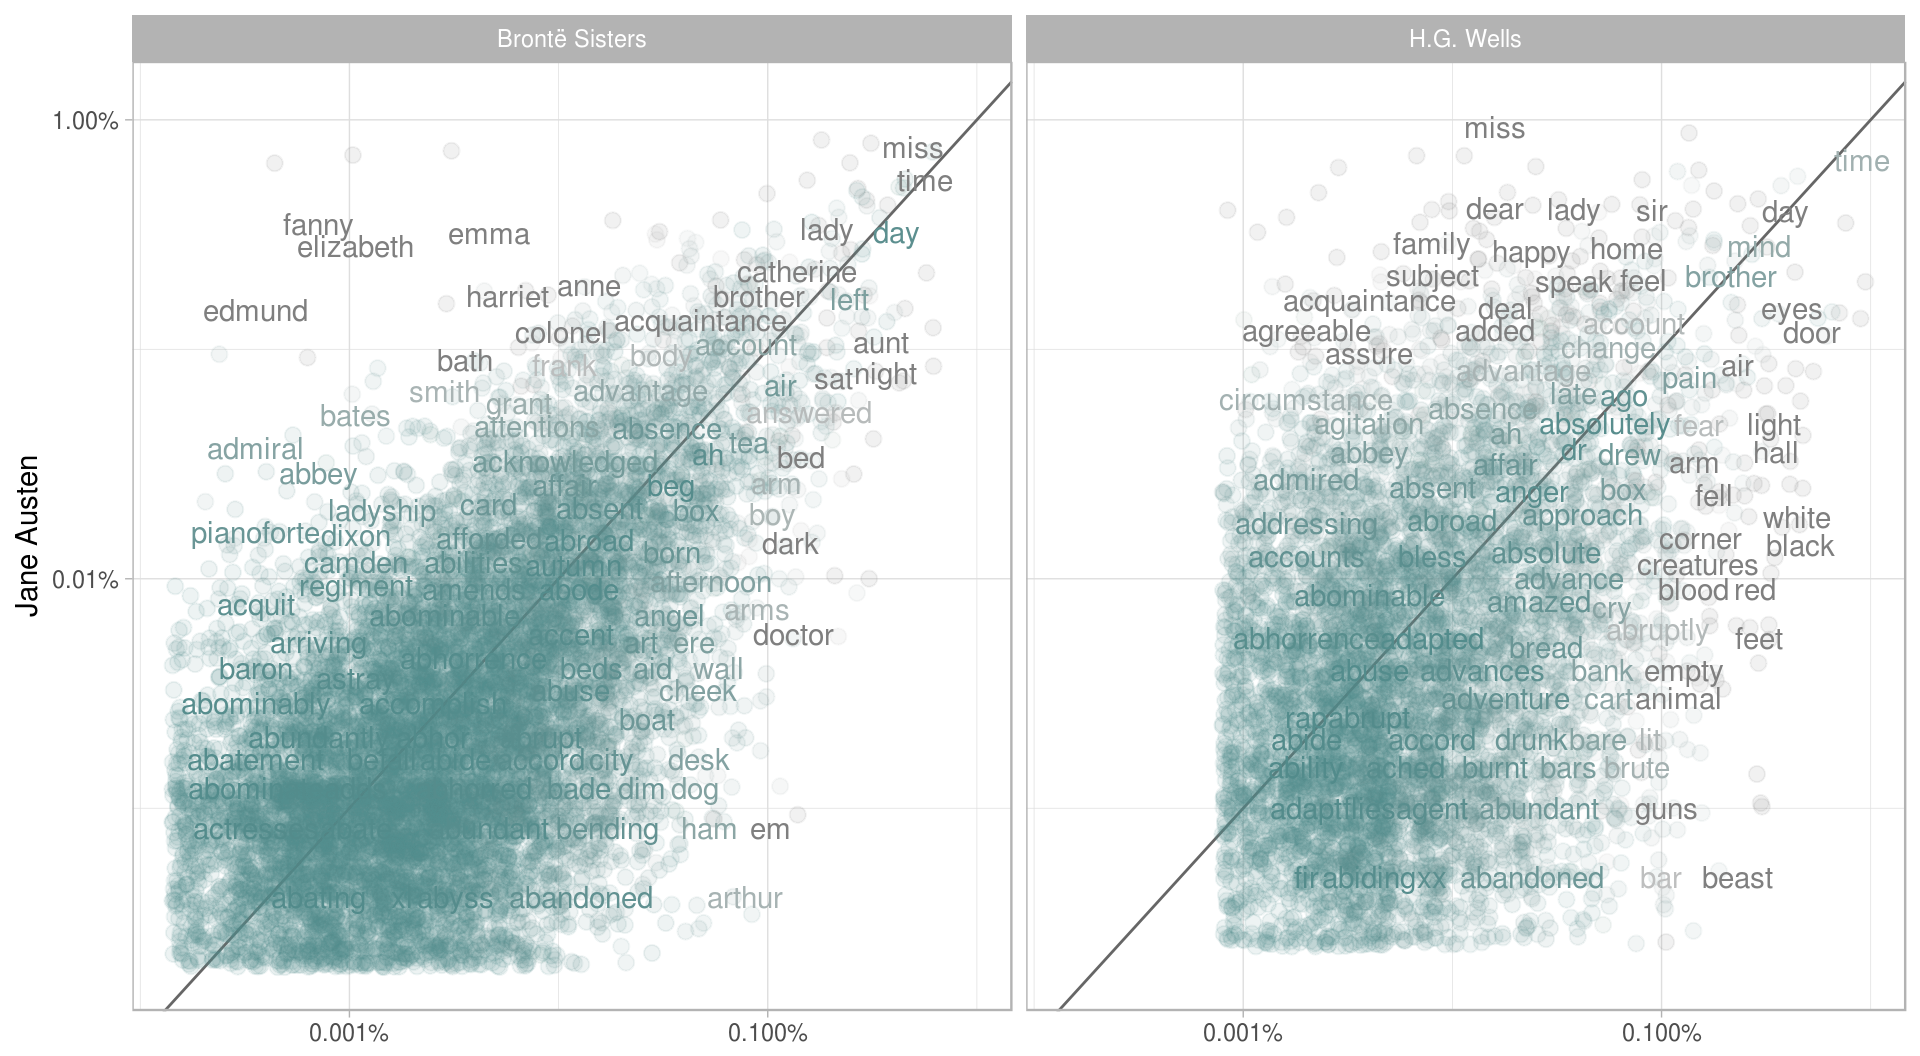
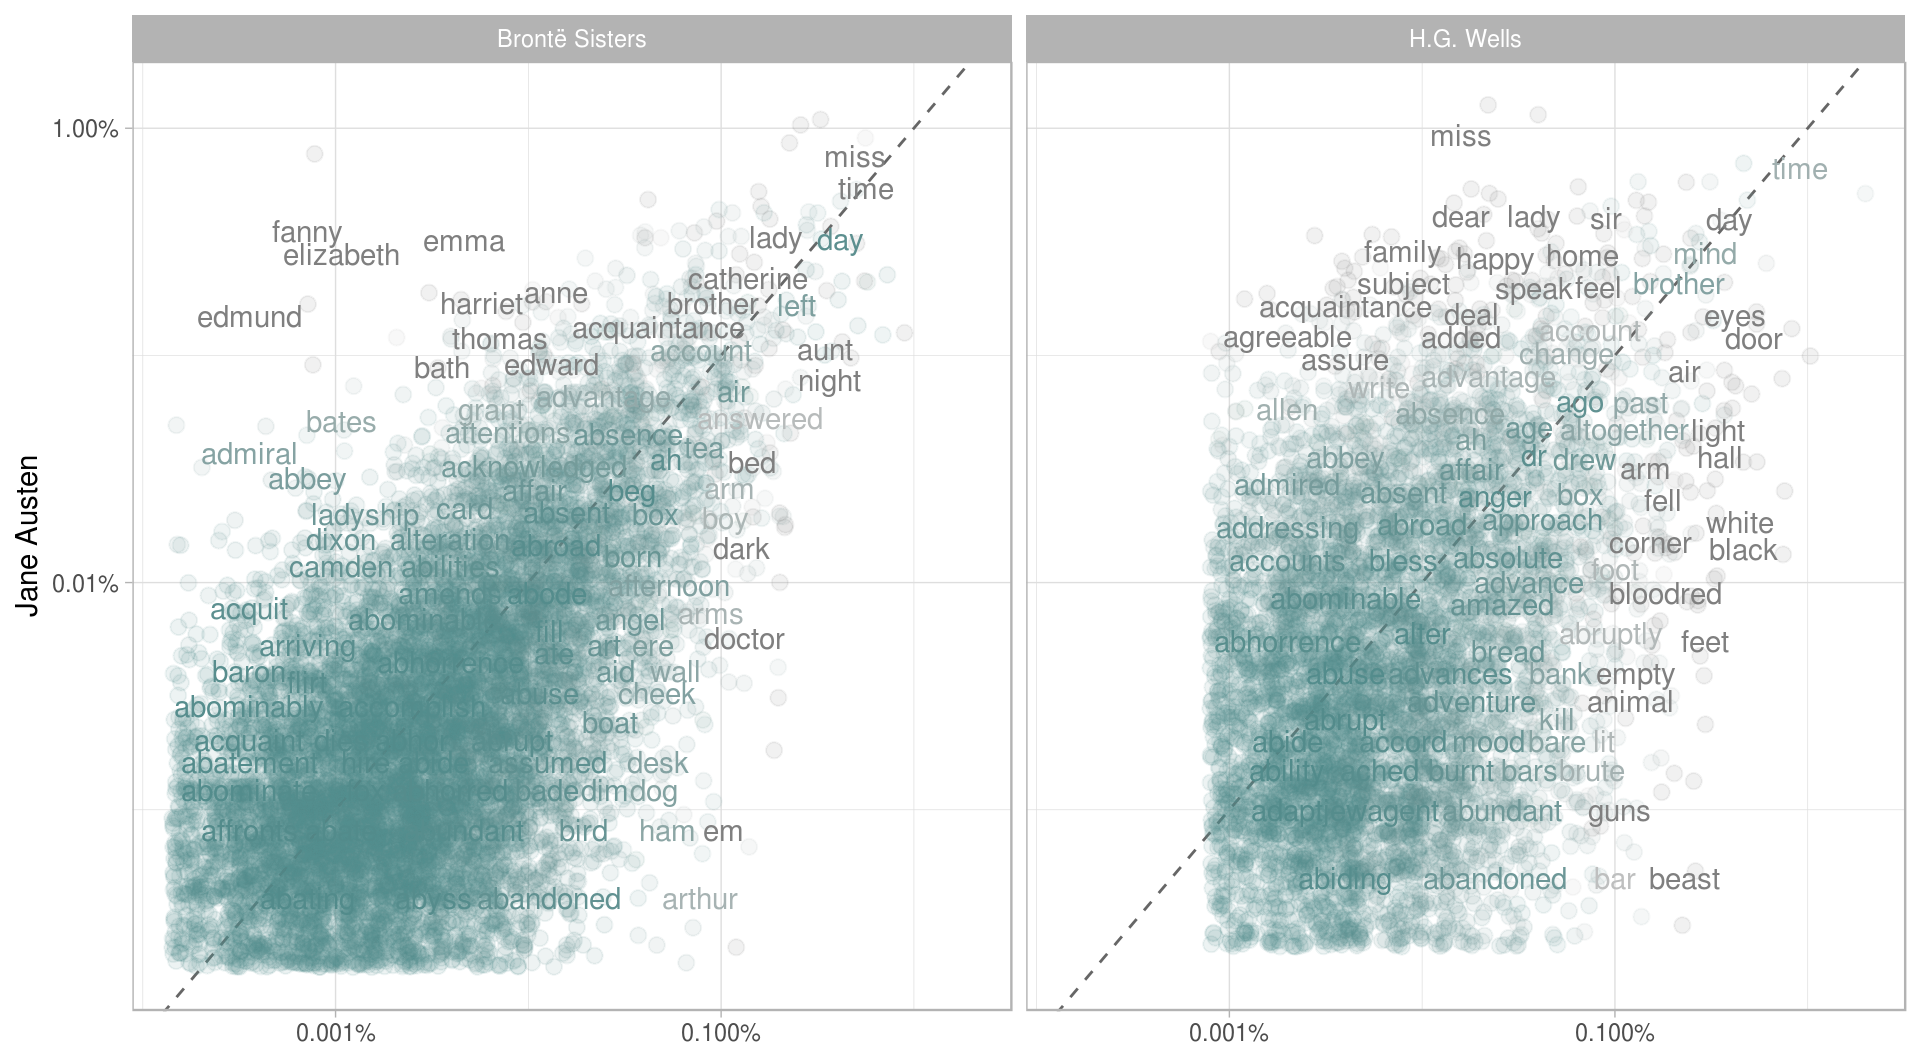
Updating book (103)

diff --git a/tidytext.html b/tidytext.html
@@ -262,7 +262,7 @@ text_df %&gt;%
 </div>
 <div id="tidying-the-works-of-jane-austen" class="section level2">
 <h2><span class="header-section-number">2.2</span> Tidying the works of Jane Austen</h2>
-<p>Let’s use the text of Jane Austen’s 6 completed, published novels from the <a href="https://cran.r-project.org/package=janeaustenr">janeaustenr</a> package, and transform them into a tidy format. The janeaustenr package provides these texts in a one-row-per-line format. Let’s start with that, annotate a <code>linenumber</code> quantity to keep track of lines in the original format, and use a regex to find where all the chapters are.</p>
+<p>Let’s use the text of Jane Austen’s 6 completed, published novels from the <a href="https://cran.r-project.org/package=janeaustenr">janeaustenr</a> package <span class="citation">(Silge <a href="#ref-R-janeaustenr">2016</a>)</span>, and transform them into a tidy format. The janeaustenr package provides these texts in a one-row-per-line format. Let’s start with that, annotate a <code>linenumber</code> quantity to keep track of lines in the original format, and use a regex to find where all the chapters are.</p>
 <div class="sourceCode"><pre class="sourceCode r"><code class="sourceCode r"><span class="kw">library</span>(janeaustenr)
 <span class="kw">library</span>(dplyr)
 <span class="kw">library</span>(stringr)
@@ -309,7 +309,7 @@ tidy_books</code></pre></div>
 ## 9  Sense &amp; Sensibility         10       1           1
 ## 10 Sense &amp; Sensibility         13       1         the
 ## # ... with 725,044 more rows</code></pre>
-<p>This function uses the <a href="https://github.com/lmullen/tokenizers">tokenizers package</a> to separate each line into words. The default tokenizing is for words, but other options include characters, n-grams, sentences, lines, paragraphs, or separation around a regex pattern.</p>
+<p>This function uses the <a href="https://github.com/lmullen/tokenizers">tokenizers package</a> <span class="citation">(Mullen <a href="#ref-R-tokenizers">2016</a>)</span> to separate each line into words. The default tokenizing is for words, but other options include characters, n-grams, sentences, lines, paragraphs, or separation around a regex pattern.</p>
 <p>Now that the data is in one-word-per-row format, we can manipulate it with tidy tools like dplyr. We can remove stop words (kept in the tidytext dataset <code>stop_words</code>) with an <code>anti_join</code>.</p>
 <div class="sourceCode"><pre class="sourceCode r"><code class="sourceCode r"><span class="kw">data</span>(stop_words)
 
@@ -348,7 +348,7 @@ tidy_books %&gt;%
 </div>
 <div id="the-gutenbergr-package" class="section level2">
 <h2><span class="header-section-number">2.3</span> The gutenbergr package</h2>
-<p>TODO: Now that we’ve introduced the janeaustenr package, also include a brief intro to the gutenberg package.</p>
+<p>Now that we’ve used the janeaustenr package, let’s introduce the <a href="https://github.com/ropenscilabs/gutenbergr">gutenbergr</a> package <span class="citation">(Robinson <a href="#ref-R-gutenbergr">2016</a>)</span>. The gutenbergr package provides access to the public domain works from the <a href="https://www.gutenberg.org/">Project Gutenberg</a> collection. The package includes tools both for downloading books (stripping out the unhelpful header/footer information), and a complete dataset of Project Gutenberg metadata that can be used to find works of interest. In this book, we will use the function <code>gutenberg_download()</code> that downloads one or more works from Project Gutenberg by ID, but you can also use other functions to explore metadata, pair Gutenberg ID with title, author, language, etc., or gather information about authors. To learn more about gutenbergr, check out the <a href="https://ropensci.org/tutorials/gutenbergr_tutorial.html">package’s tutorial at rOpenSci</a>, where it is one of rOpenSci’s packages for data access.</p>
 </div>
 <div id="word-frequencies" class="section level2">
 <h2><span class="header-section-number">2.4</span> Word frequencies</h2>
@@ -414,7 +414,7 @@ frequency &lt;-<span class="st"> </span>tidy_both %&gt;%
 <p>We use <code>str_extract</code> here because the UTF-8 encoded texts from Project Gutenberg have some examples of words with underscores around them to indicate emphasis (like italics). The tokenizer treated these as words but we don’t want to count “_any_” separately from “any”. Now let’s plot.</p>
 <div class="sourceCode"><pre class="sourceCode r"><code class="sourceCode r"><span class="kw">library</span>(scales)
 <span class="kw">ggplot</span>(frequency, <span class="kw">aes</span>(<span class="dt">x =</span> other, <span class="dt">y =</span> Austen, <span class="dt">color =</span> <span class="kw">abs</span>(Austen -<span class="st"> </span>other))) +
-<span class="st">  </span><span class="kw">geom_abline</span>(<span class="dt">color =</span> <span class="st">&quot;gray40&quot;</span>) +
+<span class="st">  </span><span class="kw">geom_abline</span>(<span class="dt">color =</span> <span class="st">&quot;gray40&quot;</span>, <span class="dt">lty =</span> <span class="dv">2</span>) +
 <span class="st">  </span><span class="kw">geom_jitter</span>(<span class="dt">alpha =</span> <span class="fl">0.1</span>, <span class="dt">size =</span> <span class="fl">2.5</span>, <span class="dt">width =</span> <span class="fl">0.4</span>, <span class="dt">height =</span> <span class="fl">0.4</span>) +
 <span class="st">  </span><span class="kw">geom_text</span>(<span class="kw">aes</span>(<span class="dt">label =</span> word), <span class="dt">check_overlap =</span> <span class="ot">TRUE</span>, <span class="dt">vjust =</span> <span class="fl">1.5</span>) +
 <span class="st">  </span><span class="kw">scale_x_log10</span>(<span class="dt">labels =</span> <span class="kw">percent_format</span>()) +
@@ -455,6 +455,18 @@ frequency &lt;-<span class="st"> </span>tidy_both %&gt;%
 ## 0.4231236</code></pre>
 <p>The relationship between the word frequencies is different between these sets of texts, as it appears in the plots.</p>
 
+</div>
+</div>
+<h3> References</h3>
+<div id="refs" class="references">
+<div id="ref-R-janeaustenr">
+<p>Silge, Julia. 2016. <em>Janeaustenr: Jane Austen’s Complete Novels</em>. <a href="https://CRAN.R-project.org/package=janeaustenr" class="uri">https://CRAN.R-project.org/package=janeaustenr</a>.</p>
+</div>
+<div id="ref-R-tokenizers">
+<p>Mullen, Lincoln. 2016. <em>Tokenizers: A Consistent Interface to Tokenize Natural Language Text</em>. <a href="https://CRAN.R-project.org/package=tokenizers" class="uri">https://CRAN.R-project.org/package=tokenizers</a>.</p>
+</div>
+<div id="ref-R-gutenbergr">
+<p>Robinson, David. 2016. <em>Gutenbergr: Download and Process Public Domain Works from Project Gutenberg</em>. <a href="https://cran.rstudio.com/package=gutenbergr" class="uri">https://cran.rstudio.com/package=gutenbergr</a>.</p>
 </div>
 </div>
             </section>

diff --git a/references.html b/references.html
@@ -215,7 +215,13 @@ code > span.in { color: #60a0b0; font-weight: bold; font-style: italic; } /* Inf
 <p>Mullen, Lincoln. 2016. <em>Tokenizers: A Consistent Interface to Tokenize Natural Language Text</em>. <a href="https://CRAN.R-project.org/package=tokenizers" class="uri">https://CRAN.R-project.org/package=tokenizers</a>.</p>
 </div>
 <div>
+<p>Robinson, David. 2016. <em>Gutenbergr: Download and Process Public Domain Works from Project Gutenberg</em>. <a href="https://cran.rstudio.com/package=gutenbergr" class="uri">https://cran.rstudio.com/package=gutenbergr</a>.</p>
+</div>
+<div>
 <p>Robinson, David, Matthieu Gomez, Boris Demeshev, Dieter Menne, Benjamin Nutter, Luke Johnston, Ben Bolker, Francois Briatte, and Hadley Wickham. 2015. <em>Broom: Convert Statistical Analysis Objects into Tidy Data Frames</em>. <a href="https://CRAN.R-project.org/package=broom" class="uri">https://CRAN.R-project.org/package=broom</a>.</p>
+</div>
+<div>
+<p>Silge, Julia. 2016. <em>Janeaustenr: Jane Austen’s Complete Novels</em>. <a href="https://CRAN.R-project.org/package=janeaustenr" class="uri">https://CRAN.R-project.org/package=janeaustenr</a>.</p>
 </div>
 <div>
 <p>Silge, Julia, and David Robinson. 2016. “Tidytext: Text Mining and Analysis Using Tidy Data Principles in R.” <em>JOSS</em> 1 (3). The Open Journal. doi:<a href="https://doi.org/10.21105/joss.00037">10.21105/joss.00037</a>.</p>

diff --git a/02-tidy-text.md b/02-tidy-text.md
@@ -87,7 +87,7 @@ Having the text data in this format lets us manipulate, process, and visualize t
 
 ## Tidying the works of Jane Austen
 
-Let's use the text of Jane Austen's 6 completed, published novels from the [janeaustenr](https://cran.r-project.org/package=janeaustenr) package, and transform them into a tidy format. The janeaustenr package provides these texts in a one-row-per-line format. Let’s start with that, annotate a `linenumber` quantity to keep track of lines in the original format, and use a regex to find where all the chapters are.
+Let's use the text of Jane Austen's 6 completed, published novels from the [janeaustenr](https://cran.r-project.org/package=janeaustenr) package [@R-janeaustenr], and transform them into a tidy format. The janeaustenr package provides these texts in a one-row-per-line format. Let’s start with that, annotate a `linenumber` quantity to keep track of lines in the original format, and use a regex to find where all the chapters are.
 
 
 ```r
@@ -150,7 +150,7 @@ tidy_books
 ## # ... with 725,044 more rows
 ```
 
-This function uses the [tokenizers package](https://github.com/lmullen/tokenizers) to separate each line into words. The default tokenizing is for words, but other options include characters, n-grams, sentences, lines, paragraphs, or separation around a regex pattern.
+This function uses the [tokenizers package](https://github.com/lmullen/tokenizers) [@R-tokenizers] to separate each line into words. The default tokenizing is for words, but other options include characters, n-grams, sentences, lines, paragraphs, or separation around a regex pattern.
 
 Now that the data is in one-word-per-row format, we can manipulate it with tidy tools like dplyr. We can remove stop words (kept in the tidytext dataset `stop_words`) with an `anti_join`.
 
@@ -209,7 +209,7 @@ We could pipe this straight into ggplot2 because of our consistent use of tidy t
 
 ## The gutenbergr package
 
-TODO: Now that we've introduced the janeaustenr package, also include a brief intro to the gutenberg package.
+Now that we've used the janeaustenr package, let's introduce the [gutenbergr](https://github.com/ropenscilabs/gutenbergr) package [@R-gutenbergr]. The gutenbergr package provides access to the public domain works from the [Project Gutenberg](https://www.gutenberg.org/) collection. The package includes tools both for downloading books (stripping out the unhelpful header/footer information), and a complete dataset of Project Gutenberg metadata that can be used to find works of interest. In this book, we will use the function `gutenberg_download()` that downloads one or more works from Project Gutenberg by ID, but you can also use other functions to explore metadata, pair Gutenberg ID with title, author, language, etc., or gather information about authors. To learn more about gutenbergr, check out the [package's tutorial at rOpenSci](https://ropensci.org/tutorials/gutenbergr_tutorial.html), where it is one of rOpenSci's packages for data access.
 
 ## Word frequencies
 
@@ -322,7 +322,7 @@ We use `str_extract` here because the UTF-8 encoded texts from Project Gutenberg
 ```r
 library(scales)
 ggplot(frequency, aes(x = other, y = Austen, color = abs(Austen - other))) +
-  geom_abline(color = "gray40") +
+  geom_abline(color = "gray40", lty = 2) +
   geom_jitter(alpha = 0.1, size = 2.5, width = 0.4, height = 0.4) +
   geom_text(aes(label = word), check_overlap = TRUE, vjust = 1.5) +
   scale_x_log10(labels = percent_format()) +
